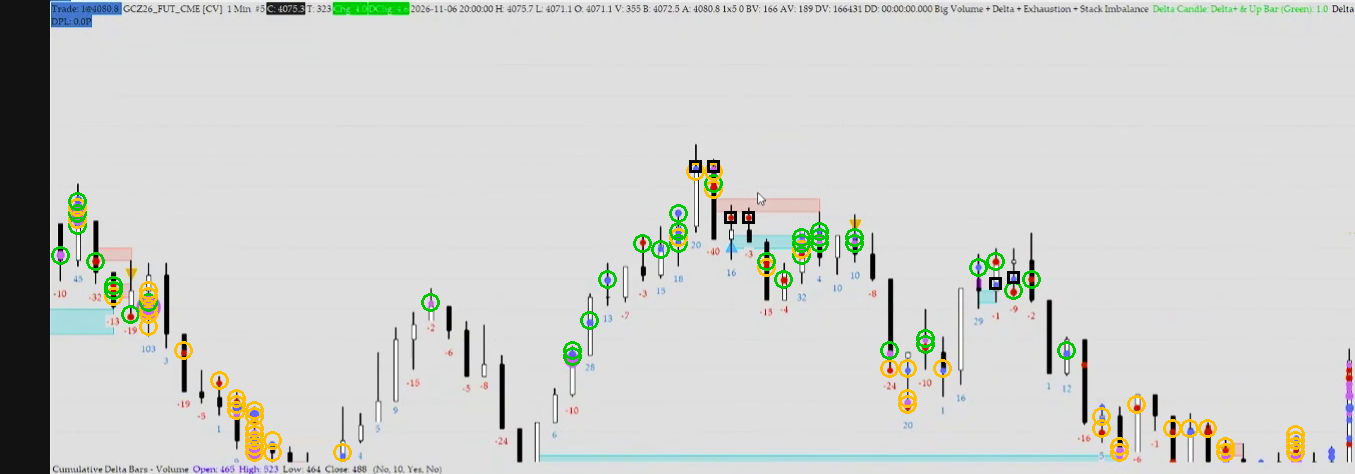
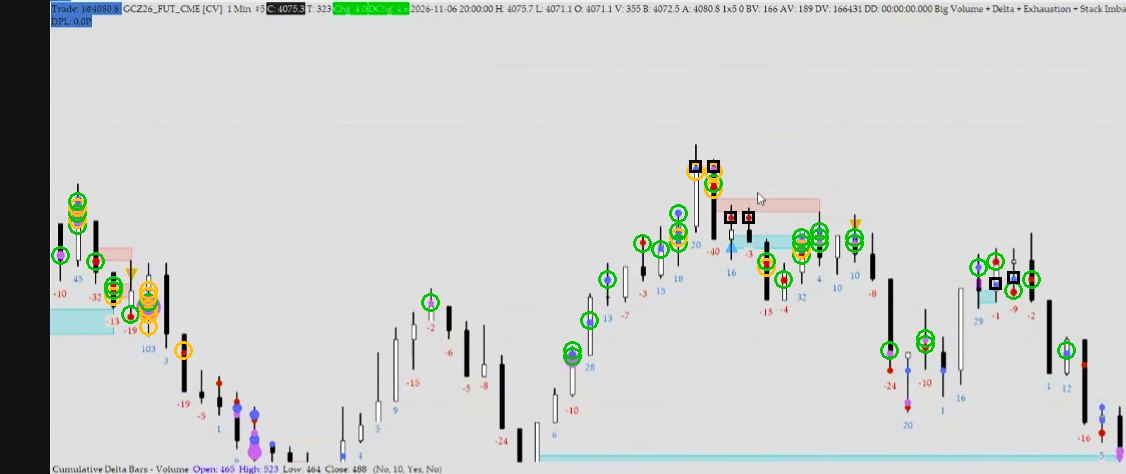
OrderFlow Bubbles research: ảnh so sánh chỉ vẽ trong vùng giá (bỏ phần dưới đáy panel giá — bộ dò không thấy bóng CORVEN ở đó)

Changed region(s): [[0.0311, 0.0, 1.0, 1.0]]

diff --git a/quantower-orderflow-indicator/research/compare_overlay.py b/quantower-orderflow-indicator/research/compare_overlay.py
@@ -54,12 +54,12 @@ def draw(fr):
     xs=[]
     for t,k in zip(ours.datetime,ours.tk):
         x,y=xy(t,k/10)
-        if not(60<x<1335 and 270<y<c['y1']+90): continue
+        if not(60<x<1335 and 270<y<c['y1']): continue
         ok=any(abs(k-b)<=1 for b in cb.get(t,()))
         R=9; d.ellipse((x-R,y-R,x+R,y+R),outline=(0,200,0) if ok else (255,190,0),width=3); xs.append(x)
     for t,k in zip(O.time_utc,O.tk):
         x,y=xy(t,k/10)
-        if not(60<x<1335 and 270<y<c['y1']+90): continue
+        if not(60<x<1335 and 270<y<c['y1']): continue
         if not any(abs(k-q)<=1 for q in pb.get(t,())):
             d.rectangle((x-6,y-6,x+6,y+6),outline=(0,0,0),width=3)
     if xs:
